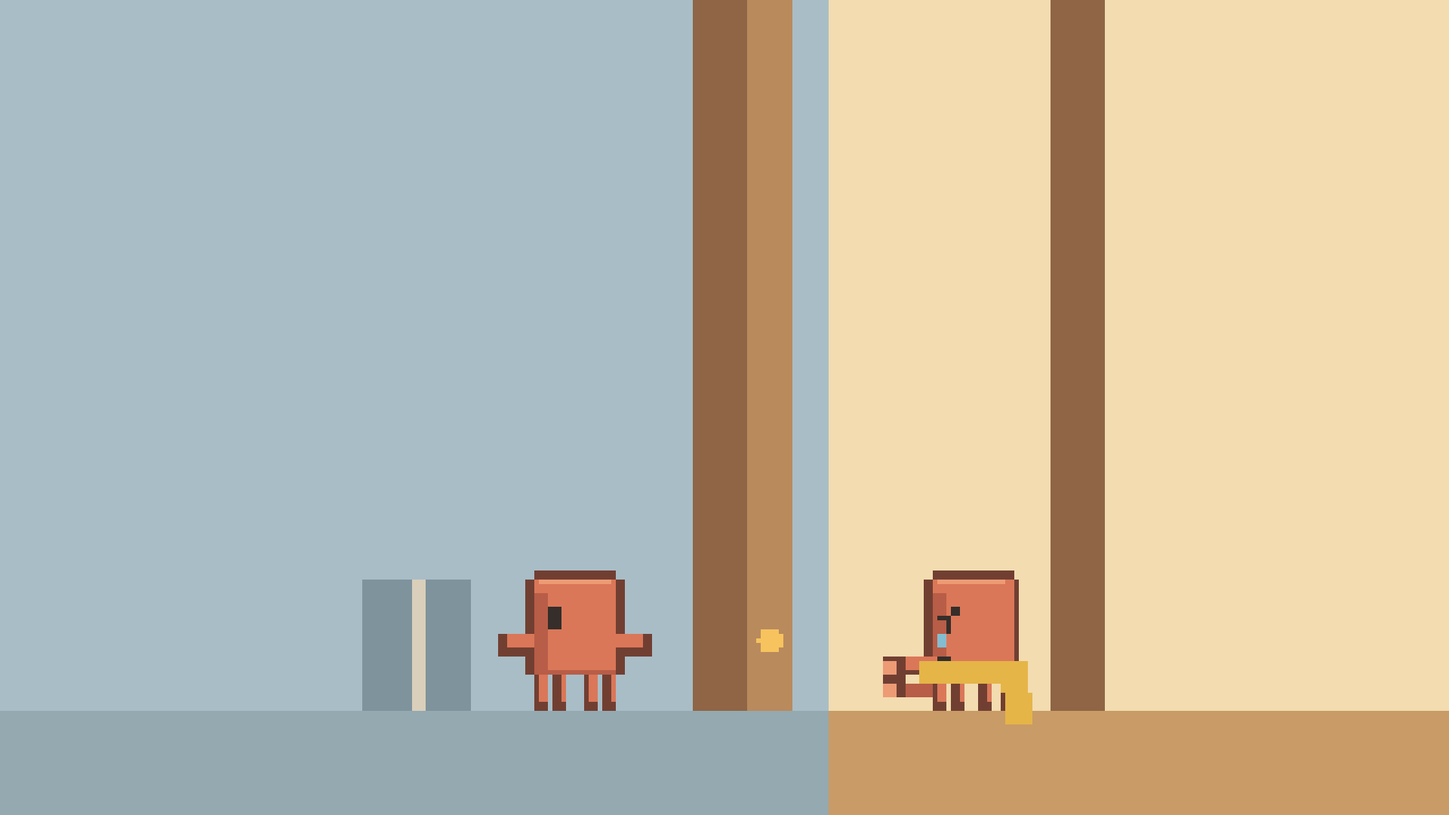
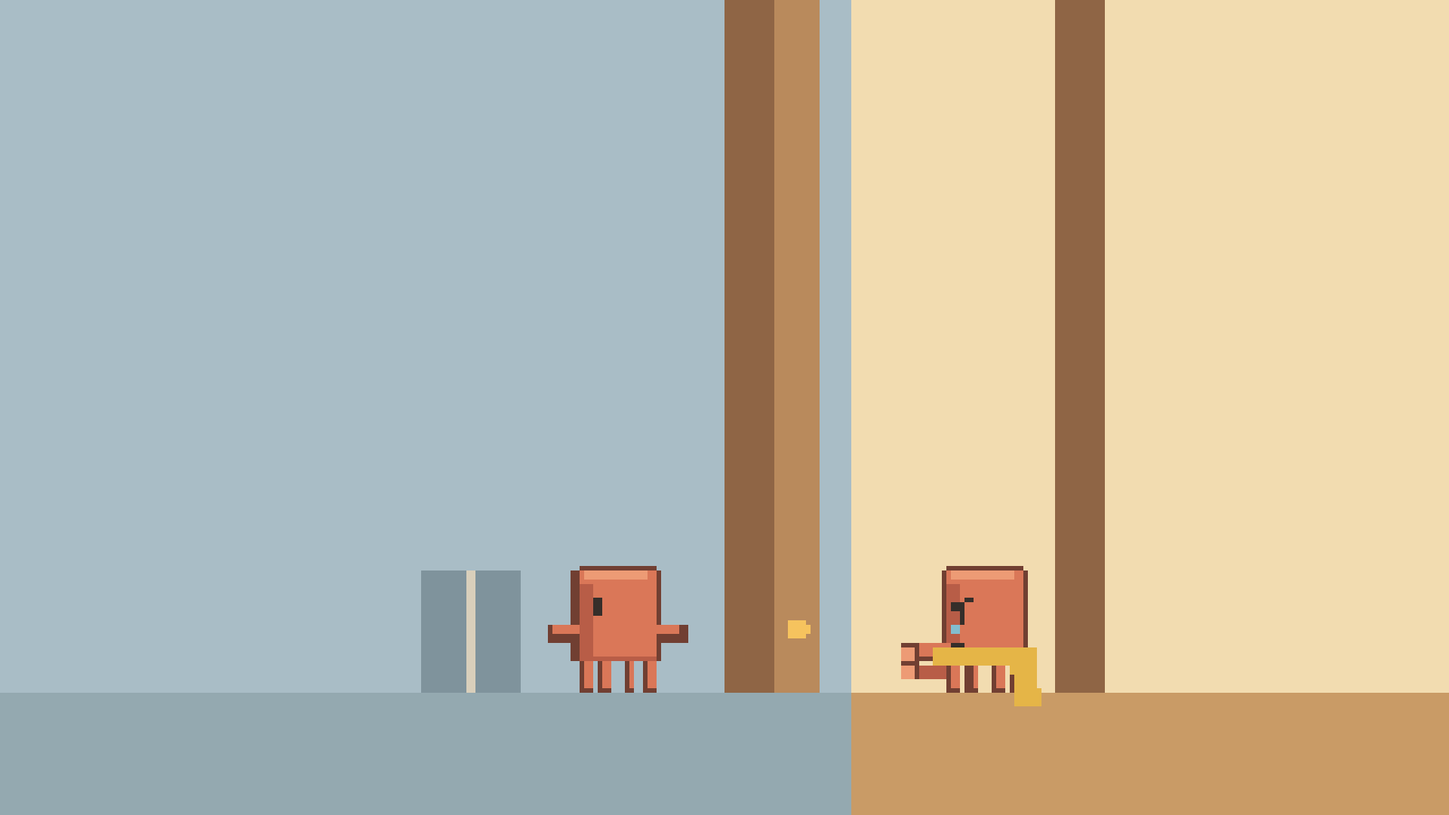
fix: make storyboard transitions continuous in film.js

Changed region(s): [[0.25, 0.0, 1.0, 1.0]]

diff --git a/會呼吸的痛/MV/film.js b/會呼吸的痛/MV/film.js
@@ -72,7 +72,7 @@ function setTower(d) {
 
 const LETTER = {x: 184, y: 152, w: 28, h: 26};
 function letterFace(d, s) {
-  const {x, y, w, h} = LETTER, mid = Math.abs(s.flip - 0.5) * 2;
+  const {x, y, w, h} = LETTER, mid = Math.abs(s.flip - 0.5) * 2 * (s.layLetter ?? 1);
   d.rect('letter', x + w / 2 - w / 2 * mid, y, w * mid, h, P.paper);
   if (mid < 0.5) return;
   if (s.flip < 0.5) {
@@ -93,7 +93,8 @@ function letterFace(d, s) {
 
 function planFace(d, s) {
   const x = 153 + (s.planShift ?? 0), y = 152;
-  d.rect('plan', x, y, 28, 26, P.white);
+  d.rect('plan', x, y, 28 * (s.layPlan ?? 1), 26, P.white);
+  if ((s.layPlan ?? 1) < 1) return;
   d.poly('planTower', [[x + 16, y + 15], [x + 19, y + 3], [x + 22, y + 15]], P.red);
   d.rect('planFigA', x + 14, y + 16, 3, 5, P.skinDark);
   d.rect('planFigB', x + 22, y + 16, 3, 5, P.skinDark);
@@ -214,14 +215,15 @@ function setPhone(d, s) {
   d.sky('phoneSky', 94, 2, 132, 176, [P.sky0, P.sky1, P.sky2]);
   d.poly('phoneCity', [[94, 130], [116, 118], [134, 126], [160, 110], [188, 124], [226, 112], [226, 178], [94, 178]], P.cityMid);
   d.dots('phoneLamps', [[108, 150], [124, 140], [150, 134], [168, 150], [194, 140], [212, 150], [140, 164], [186, 164], [120, 170], [206, 170]], P.lamp, 1.3);
-  const shift = mix(0, -46, s.pan);
+  const shift = mix(0, -46, s.pan), u = mix(2.4, 3, s.grow), x = mix(138, 112, s.grow) + shift, y = mix(90, 72, s.grow);
   d.rect('phoneChairBack', 214 + shift, 88, 8, 90, P.metal);
   d.rect('phoneChairSeat', 176 + shift, 150, 44, 7, P.cityFar);
-  d.clawd('selfie', 112 + shift, 72, {facing: 'front', expression: s.smile ? 'happy' : 'neutral', action: 'hug', frame: 0, unit: 3});
-  d.poly('selfieScarf', [[130 + shift, 134], [178 + shift, 134], [174 + shift, 160], [134 + shift, 160]], P.scarf);
+  d.clawd('selfie', x, y, {facing: 'front', expression: s.expr, action: 'hug', frame: 0, unit: u});
+  d.poly('selfieScarf', [[x + 6 * u, y + 20.67 * u], [x + 22 * u, y + 20.67 * u], [x + 20.67 * u, y + 29.33 * u], [x + 7.33 * u, y + 29.33 * u]], P.scarf);
 }
 
 const AX = 121, AY = 156, BX = 211, BY = 156, STAND = [196, 165];
+const ARRIVE = {from: [210, 158], leave: 9.52, seat: 12.6};
 const CAM = {wide: [150, 110, 1], plan: [167, 165, 6], letter: [198, 165, 6], wrist: [150, 173, 5]};
 const PEN_REST = [205, 172], WALK_RATE = 3.75;
 
@@ -240,20 +242,31 @@ function hopTo(t, t0, t1, from, to, facing) {
     action: moving ? 'jump' : 'idle', frame: moving ? 1 + Math.floor(p * 3) : 0, front: true};
 }
 
+// A 走出电梯到座位的路径；走到之前车票都在手尖。
+function arrivalAt(t) {
+  const p = clamp01((t - ARRIVE.leave) / (ARRIVE.seat - ARRIVE.leave));
+  return {x: Math.round(ARRIVE.from[0] + (AX - ARRIVE.from[0]) * p), y: Math.round(ARRIVE.from[1] + (AY - ARRIVE.from[1]) * p), facing: t < ARRIVE.leave ? 'right' : 'left', walking: t < ARRIVE.seat};
+}
+
 function tableState(t) {
   let ticketA = mixArr([161, 181], [165, 176], span(t, 44.2, 47)), ticketB = [177, 162];
+  if (t < 13.4) {
+    const {x, y, facing} = arrivalAt(t), land = span(t, ARRIVE.seat, 13.4), hand = facing === 'right' ? [31, 33] : [1, -1];
+    ticketA = mixArr([x + hand[0], y + 19], ticketA, land); ticketB = mixArr([x + hand[1], y + 22], ticketB, land);
+  }
   const finish = span(t, 251.4, 253.9);
   ticketA = mixArr(ticketA, [169, 176], finish); ticketB = mixArr(ticketB, [177, 176], finish);
-  const writing = (t > 212.1 && t < 215.1) || (t > 228.5 && t < 236.8);
+  const writing = (t > 212.1 && t < 215.737) || (t >= 228.624 && t < 237.192);
   let scarf = 'draped';
   if (t >= 200.5) scarf = 'gathered';
-  if (t >= 216.2) scarf = 'held';
+  if (t >= 216.4) scarf = 'held';
   return {
     ticketA, ticketB, used: t > 44.2, penAt: writing ? null : PEN_REST, scarf,
-    planOpen: span(t, 104.2, 108), flip: span(t, 211.4, 212.3),
+    planOpen: span(t, 104.2, 108), flip: span(t, 211.4, 212.1),
+    layPlan: span(t, ARRIVE.seat, 13.4), layLetter: span(t, 13.4, 14.2),
     words: Math.floor(6 * span(t, 212.6, 214.9)),
     drawn1: t > 230.6, drawn2: t > 234.9,
-    elevator: span(t, 242.5, 246.5), envelope: t > 11,
+    elevator: span(t, 242.556, 246.5), envelope: t > ARRIVE.seat,
   };
 }
 
@@ -264,70 +277,93 @@ const SAD = {expr: 'sad', facing: 'right'};
 // 每镜返回场景、相机与角色状态；p 为本镜进度。
 const SCRIPT = {
   P01: (p, t) => ({set: 'tower', cam: [mix(170, 280, p), 100, 1], walker: {x: Math.round(mix(40, 340, p)), frame: Math.floor(t * WALK_RATE) % 4}}),
-  P02: (p, t) => ({set: 'deck', cam: mixArr([110, 140, 1.5], CAM.wide, span(t, 9.2, 14.21)), a: {expr: 'neutral', facing: 'right'}}),
-  L01: (p) => ({set: 'deck', cam: mixArr(CAM.wide, [130, 128, 1.6], p), a: {expr: 'neutral', facing: 'back'}}),
+  P02: (p, t) => {
+    const {x, y, facing, walking} = arrivalAt(t);
+    return {set: 'deck', cam: CAM.wide, a: walking ? {x, y, facing, expr: 'neutral', action: 'walk', frame: Math.floor(t * WALK_RATE) % 4, front: true} : {expr: 'neutral', facing: 'right'}};
+  },
+  L01: (p, t) => ({set: 'deck', cam: mixArr(CAM.wide, [130, 128, 1.6], p), a: {expr: 'neutral', facing: t < 18.646 ? 'right' : 'back'}}),
   L02: (p) => ({set: 'deck', cam: mixArr([130, 128, 1.6], [130, 126, 2.1], p), a: {expr: 'neutral', facing: 'back'}}),
-  L03: (p) => ({set: 'deck', cam: mixArr([130, 126, 2.1], [170, 160, 1.7], p), a: {...SAD, dy: 1}}),
+  L03: (p, t) => ({set: 'deck', cam: mixArr([130, 126, 2.1], [170, 160, 1.7], p), a: t < 35.759 ? {expr: 'neutral', facing: 'back'} : {...SAD, dy: 1}}),
   L04: (p, t) => ({set: 'deck', cam: mixArr([170, 160, 1.7], CAM.plan, span(t, 43.77, 46)), a: {...SAD, dy: 1, dx: Math.round(18 * span(t, 43.8, 44.8))}}),
   L05: (p, t) => {
-    const sticker = span(t, 53.5, 56.5), rise = span(t, 51.5, 52.8), onChair = [Math.round(stickerX(sticker) - 2), 151];
-    return {set: 'home', cam: mixArr(CAM.plan, [170, 112, 1.15], span(t, 50.5, 53)), a: {expr: 'happy', facing: 'right'},
-      b: {expr: 'happy', scarf: true, x: rise < 1 ? Math.round(BX + (onChair[0] - BX) * rise) : onChair[0], y: rise < 1 ? Math.round(BY + (onChair[1] - BY) * rise) : onChair[1]},
-      sticker, suitcase: true};
+    const sticker = span(t, 53.5, 56.5), rise = span(t, 51.5, 52.8) * (1 - span(t, 56.7, 58.2)), onChair = [Math.round(stickerX(sticker) - 2), 151], back = 1 - span(t, 50.736, 53);
+    return {set: 'home', cam: mixArr(CAM.plan, [170, 112, 1.15], span(t, 50.759, 53)), a: {expr: t < 50.736 ? 'sad' : 'happy', facing: 'right', dx: Math.round(18 * back), dy: t < 50.736 ? 1 : 0},
+      b: {expr: 'happy', scarf: true, x: Math.round(BX + (onChair[0] - BX) * rise), y: Math.round(BY + (onChair[1] - BY) * rise)},
+      sticker, suitcase: true, corner: true};
   },
-  L06: (p, t) => ({set: 'home', cam: mixArr([170, 112, 1.15], [172, 160, 1.9], p), a: {expr: 'sad', facing: 'right'}, b: {expr: 'sad', scarf: true, dx: Math.round(mix(0, -17, span(t, 59, 60)))},
-    key: mix(196, 160, span(t, 60.5, 64)), sticker: 1}),
-  L07: (p, t) => ({set: 'deck', cam: [140, 168, 3], a: {...SAD, dy: breath(t, 67.8, 70.6)}}),
-  L08: (p, t) => ({set: 'deck', cam: mixArr([140, 168, 3], [150, 172, 1.7], p), a: {...SAD, dx: shake(t)}}),
+  L06: (p, t) => ({set: 'home', cam: mixArr([170, 112, 1.15], [172, 160, 1.9], p), a: {expr: t < 59.327 ? 'happy' : 'sad', facing: 'right'}, b: {expr: t < 59.327 ? 'happy' : 'sad', scarf: true, dx: Math.round(mix(0, -17, span(t, 59.327, 60.3)))},
+    key: mix(196, 160, span(t, 60.5, 64)), sticker: 1, corner: true}),
+  L07: (p, t) => ({set: 'deck', cam: mixArr([172, 160, 1.9], [140, 168, 3], span(t, 67.849, 68.9)), a: {...SAD, dy: breath(t, 67.8, 70.6)}}),
+  L08: (p, t) => ({set: 'deck', cam: mixArr([140, 168, 3], [150, 172, 1.7], p), a: {...SAD, dx: t < 71.74 ? 0 : shake(t)}}),
   L09: (p, t) => ({set: 'deck', cam: mixArr([150, 172, 1.7], [172, 165, 2.3], p), a: {...SAD, dx: shake(t), mouth: 'hum'}, notes: t}),
   L10: () => ({set: 'deck', cam: [172, 165, 2.3], a: {...SAD, mouth: 'bite'}}),
   L11: (p, t) => ({set: 'deck', cam: mixArr([172, 165, 2.3], [165, 168, 2.3], p), a: {...SAD, dy: breath(t, 84.9, 88)}}),
   L12: (p, t) => ({set: 'deck', cam: mixArr([165, 168, 2.3], CAM.wrist, span(t, 88.8, 90.2)), a: SAD, rub: Math.floor((t - 88.8) * WALK_RATE) % 2}),
-  L13: (p, t) => ({set: 'home', cam: mixArr([190, 165, 2.2], [180, 152, 1.5], span(t, 93.3, 95.3)), a: {expr: 'neutral', facing: 'right', phone: true}, b: {expr: 'shy', dx: -17}, heldScarf: true}),
-  L14: (p, t) => ({set: 'deck', cam: [180, 152, 1.5], a: {...SAD, action: t > 98.9 ? 'hug' : 'idle'}}),
-  I01: (p, t) => ({set: 'deck', cam: mixArr([180, 152, 1.5], CAM.plan, span(t, 102.7, 104.5)), a: {...SAD, dx: Math.round(mix(mix(0, 11, span(t, 102.7, 104)), 0, span(t, 108, 109)))}}),
+  L13: (p, t) => ({set: 'home', cam: mixArr(CAM.wrist, [180, 152, 1.5], span(t, 93.623, 95.3)), a: {expr: t < 93.6 ? 'sad' : 'neutral', facing: 'right', phone: true}, b: {expr: 'shy', dx: Math.round(-17 * span(t, 93.623, 95.3))}, heldScarf: true, corner: true}),
+  L14: (p, t) => ({set: 'deck', cam: [180, 152, 1.5], a: {expr: t < 98.963 ? 'neutral' : 'sad', facing: 'right', action: t >= 98.963 ? 'hug' : 'idle'}}),
+  I01: (p, t) => ({set: 'deck', cam: mixArr([180, 152, 1.5], CAM.plan, span(t, 102.7, 104.5)), a: {...SAD, action: t < 103.259 ? 'hug' : 'idle', dx: Math.round(mix(mix(0, 11, span(t, 103.259, 104)), 0, span(t, 108, 109)))}}),
   I02: (p, t) => ({set: 'home', cam: mixArr(CAM.plan, [200, 160, 2.4], span(t, 112.7, 121)), b: {expr: 'sad', scarf: true, dx: Math.round(-11 * span(t, 112.7, 114))}, emptyA: true, planFolded: span(t, 114, 119)}),
-  L15: (p) => ({set: 'home', cam: mixArr([200, 160, 2.4], [185, 158, 1.7], p), a: {expr: 'neutral', facing: 'right', phone: true}, b: {expr: 'happy', scarf: true, tense: true}, planFolded: 1}),
-  L16: (p, t) => ({set: 'home', cam: mixArr([185, 158, 1.7], [222, 182, 4], span(t, 131.7, 134)), b: {expr: 'sad', scarf: true}, a: {expr: 'neutral', facing: 'right', phone: true}, planFolded: 1,
-    fist: 1.6 + Math.abs(Math.sin((t - 134) * 2)) * 0.5, underEdge: span(t, 132, 134)}),
-  L17: (p, t) => ({set: 'door', cam: mixArr([200, 100, 2.4], [150, 92, 1], span(t, 141, 145)), a: {x: 56, y: 118, facing: 'left', expr: 'neutral'}, b: {x: 203, y: 118, expr: 'sad', scarf: true}, doorOpen: span(t, 142, 146), suitcaseAt: 40}),
-  L18: () => ({set: 'home', cam: CAM.wide, b: {expr: 'sad', scarf: true}, emptyA: true, dinner: true}),
-  L19: (p, t) => ({set: 'door', cam: mixArr([175, 105, 2], [150, 100, 1.4], p), a: {x: 118, y: 118, facing: 'left', expr: 'neutral'}, b: {x: 176, y: 118, expr: 'sad', scarf: true, action: t > 156 ? 'hug' : 'idle'}, doorOpen: 1, suitcaseAt: 102}),
+  L15: (p, t) => {
+    const settled = t >= 123.6;
+    return {set: 'home', cam: mixArr([200, 160, 2.4], [185, 158, 1.7], p), a: {expr: 'neutral', facing: 'right', phone: true}, b: {expr: settled ? 'happy' : 'sad', scarf: true, tense: settled, dx: Math.round(-11 * (1 - span(t, 123.6, 124.7)))}, planFolded: 1};
+  },
+  L16: (p, t) => {
+    const clenched = t >= 132.191;
+    return {set: 'home', cam: mixArr([185, 158, 1.7], [222, 182, 4], span(t, 131.7, 134)), b: {expr: clenched ? 'sad' : 'happy', scarf: true, tense: !clenched}, a: {expr: 'neutral', facing: 'right', phone: true}, planFolded: 1,
+      ...(clenched ? {fist: 1.6 + Math.abs(Math.sin((t - 134) * 2)) * 0.5, underEdge: span(t, 132.191, 134)} : {})};
+  },
+  L17: (p, t) => {
+    const leave = span(t, 146.3, 148.2), x = Math.round(56 + (-50 - 56) * leave);
+    return {set: 'door', cam: mixArr([214, 144, 4], [150, 92, 1], span(t, 140.759, 145)), a: {x, y: 118, facing: 'left', expr: 'neutral', action: leave > 0 && leave < 1 ? 'walk' : 'idle', frame: Math.floor(t * WALK_RATE) % 4}, b: {x: 203, y: 118, expr: 'sad', scarf: true}, doorOpen: span(t, 142, 146), suitcaseAt: x - 16, doorFist: t < 140.759};
+  },
+  L18: (p, t) => ({set: 'home', cam: mixArr([158, 130, 1], CAM.wide, span(t, 149.327, 150.4)), b: {expr: 'sad', scarf: true}, emptyA: true, dinner: true}),
+  L19: (p, t) => ({set: 'door', cam: mixArr([115, 72, 1], [150, 100, 1.4], span(t, 155.736, 158)), a: {x: 118, y: 118, facing: 'left', expr: 'neutral'}, b: {x: 176, y: 118, expr: 'sad', scarf: true, action: t > 156 ? 'hug' : 'idle'}, doorOpen: 1, suitcaseAt: 102}),
   L20: (p, t) => {
-    const x = Math.round(mix(118, -70, span(t, 164.2, 170)));
-    return {set: 'door', cam: [150, 100, 1.4], a: {x, y: 118, facing: 'left', expr: 'neutral', action: 'walk', frame: Math.floor(t * WALK_RATE) % 4}, b: {x: 176, y: 118, expr: 'sad', scarf: true, action: 'hug'}, doorOpen: 1, suitcaseAt: x - 16};
+    const walk = span(t, 164.328, 170), x = Math.round(118 + (-70 - 118) * walk);
+    return {set: 'door', cam: [150, 100, 1.4], a: {x, y: 118, facing: 'left', expr: 'neutral', action: walk > 0 ? 'walk' : 'idle', frame: Math.floor(t * WALK_RATE) % 4}, b: {x: 176, y: 118, expr: 'sad', scarf: true, action: 'hug'}, doorOpen: 1, suitcaseAt: x - 16};
   },
   L21: (p, t) => ({set: 'deck', cam: mixArr([232, 158, 2], [160, 170, 1.9], p), a: {...SAD, dy: breath(t, 172.9, 176)}}),
-  L22: (p, t) => ({set: 'deck', cam: [160, 170, 1.9], a: {...SAD, action: 'hug', dy: Math.round(2 * span(t, 176.8, 179)), dx: shake(t)}}),
+  L22: (p, t) => ({set: 'deck', cam: [160, 170, 1.9], a: {...SAD, action: t < 177.191 ? 'idle' : 'hug', dy: Math.round(2 * span(t, 177.191, 179)), dx: t < 177.191 || t > 180.5 ? 0 : shake(t)}}),
   L23: (p, t) => ({set: 'deck', cam: mixArr([160, 170, 1.9], [172, 165, 2.3], span(t, 181, 183)), a: {...SAD, action: 'hug', dy: 2, mouth: 'hum'}, tear: span(t, 182.5, 185.5)}),
   L24: () => ({set: 'deck', cam: [172, 165, 2.3], a: {...SAD, action: 'hug', dy: 2}}),
-  L25: (p, t) => ({set: 'deck', cam: mixArr([172, 165, 2.3], [168, 172, 2.3], p), a: {...SAD, dy: 2 + breath(t, 190, 193)}}),
-  L26: (p, t) => ({set: 'deck', cam: mixArr([168, 172, 2.3], CAM.wrist, span(t, 193.8, 195.2)), a: {...SAD, dy: 2}, rub: Math.floor((t - 193.8) * 5) % 2}),
-  L27: (p, t) => ({set: 'deck', cam: mixArr([175, 165, 2], [205, 165, 2], span(t, 198.1, 200.3)), a: walkBetween(t, 198.1, 200.3, true)}),
+  L25: (p, t) => ({set: 'deck', cam: mixArr([172, 165, 2.3], [168, 172, 2.3], span(t, 190.032, 193.794)), a: {...SAD, action: t < 190.032 ? 'hug' : 'idle', dy: 2 + breath(t, 190.032, 193)}}),
+  L26: (p, t) => ({set: 'deck', cam: mixArr([168, 172, 2.3], CAM.wrist, span(t, 193.8, 195.2)), a: {...SAD, dy: t < 197.3 ? 2 : t < 197.7 ? 1 : 0}, rub: t < 197.3 ? Math.floor((t - 193.8) * 5) % 2 : undefined}),
+  L27: (p, t) => ({set: 'deck', cam: mixArr(CAM.wrist, [205, 165, 2], span(t, 198.066, 200.3)), a: walkBetween(t, 198.1, 200.3, true)}),
   L28: (p, t) => {
     const a = walkBetween(t, 208.4, 210.7, false);
     return {set: 'deck', cam: mixArr([205, 165, 2], [185, 165, 2], span(t, 208.4, 210.9)), a: {...a, action: t > 203.8 && t < 208.4 ? 'hug' : a.action, facing: t < 208.4 ? 'right' : a.facing}};
   },
   L29: (p, t) => {
     const write = span(t, 212.6, 214.9), onLetter = [Math.round(186 + 22 * write), 140];
-    const a = t < 211.7 ? hopTo(t, 210.93, 211.7, [AX, AY], [186, 140], 'left') : {x: onLetter[0], y: onLetter[1], facing: 'left', expr: 'sad', action: write > 0 && write < 1 ? 'walk' : 'idle', frame: Math.floor(t * WALK_RATE) % 4, front: true};
-    return {set: 'deck', cam: mixArr([185, 165, 2], CAM.letter, span(t, 210.93, 212)), a, pen: t > 212.1 && t < 215.1 ? [onLetter[0] + 0.4, 156.5] : null};
+    const a = t < 212.1 ? hopTo(t, 211.464, 212.1, [AX, AY], [186, 140], 'right') : {x: onLetter[0], y: onLetter[1], facing: 'left', expr: 'sad', action: write > 0 && write < 1 ? 'walk' : 'idle', frame: Math.floor(t * WALK_RATE) % 4, front: true};
+    return {set: 'deck', cam: mixArr([185, 165, 2], CAM.letter, span(t, 211.464, 212.4)), a, pen: t > 212.1 ? [onLetter[0] + 0.4, 156.5] : null};
   },
-  L30: (p, t) => ({set: 'deck', cam: mixArr(CAM.letter, [205, 165, 2.4], span(t, 215.2, 216.6)),
-    a: {...hopTo(t, 215.2, 216.2, [208, 140], STAND, 'right'), action: t > 216.3 ? 'hug' : hopTo(t, 215.2, 216.2, [208, 140], STAND, 'right').action},
-    holdScarf: t >= 216.2 ? Math.max(0.01, span(t, 216.2, 216.8)) : 0}),
-  L31: () => ({set: 'phone', pan: 0, smile: true}),
-  L32: (p, t) => ({set: 'phone', pan: span(t, 225, 227.5), smile: span(t, 225, 226.5) < 1}),
-  L33: (p, t) => ({set: 'deck', cam: mixArr([198, 165, 4], [190, 165, 7], span(t, 228.2, 229.2)), a: {x: 188, y: 154, facing: 'left', expr: 'sad', front: true}, holdScarf: 1, pen: [188 + Math.sin((t - 229) * 6), 170]}),
-  L34: (p, t) => ({set: 'deck', cam: mixArr([190, 165, 7], [204, 165, 7], span(t, 232.4, 233.2)), a: {x: 199, y: 154, facing: 'left', expr: 'sad', front: true}, holdScarf: 1, pen: [199 + Math.sin((t - 233) * 6), 170], sleeve: [229, 180]}),
+  L30: (p, t) => {
+    const hop = hopTo(t, 215.737, 216.4, [208, 140], STAND, t < 215.737 ? 'left' : 'right');
+    return {set: 'deck', cam: mixArr(CAM.letter, [205, 165, 2.4], span(t, 215.737, 216.9)), a: {...hop, action: t >= 216.4 ? 'hug' : hop.action},
+      pen: t < 215.737 ? [208.4, 156.5] : null, holdScarf: t >= 216.4 ? Math.max(0.01, span(t, 216.4, 217)) : 0};
+  },
+  L31: (p, t) => ({set: 'phone', pan: 0, grow: span(t, 220.055, 221.1), expr: t < 220.079 ? 'sad' : 'happy'}),
+  L32: (p, t) => ({set: 'phone', pan: span(t, 225, 227.5), grow: 1, expr: span(t, 225.396, 226.5) < 1 ? 'happy' : 'neutral'}),
+  L33: (p, t) => {
+    const ready = t >= 228.624;
+    return {set: 'deck', cam: mixArr([219.3, 160, 3], [190, 165, 7], span(t, 228.624, 229.7)), a: {x: 188, y: 154, facing: ready ? 'left' : 'front', expr: ready ? 'sad' : 'neutral', action: ready ? 'idle' : 'hug', front: true}, holdScarf: 1, pen: ready ? [188 + Math.sin((t - 229) * 6), 170] : null};
+  },
+  L34: (p, t) => {
+    const walk = span(t, 232.4, 233.2), x = Math.round(188 + 11 * walk);
+    return {set: 'deck', cam: mixArr([190, 165, 7], [204, 165, 7], walk), a: {x, y: 154, facing: 'left', expr: 'sad', action: walk > 0 && walk < 1 ? 'walk' : 'idle', frame: Math.floor(t * WALK_RATE) % 4, front: true}, holdScarf: 1, pen: [x + Math.sin((t - 233) * 6), 170], sleeve: [229, 180]};
+  },
   L35: (p, t) => {
-    const a = hopTo(t, 236.8, 237.8, [199, 154], [AX, AY], 'right');
-    return {set: 'deck', cam: mixArr([204, 165, 7], CAM.wide, span(t, 236.8, 240.6)), a: {...a, expr: 'shy', action: t > 237.8 ? 'hug' : a.action, front: t < 237.8, dy: t > 237.8 ? Math.round(2 * span(t, 237.8, 238.8)) : 0}, holdScarf: 1,
-      sleeve: mixArr([229, 180], [166, 190], span(t, 236.8, 238.8))};
+    const set = t >= 237.192, a = hopTo(t, 237.192, 238.2, [199, 154], [AX, AY], set ? 'right' : 'left');
+    return {set: 'deck', cam: mixArr([204, 165, 7], CAM.wide, span(t, 236.8, 240.6)), a: {...a, expr: set ? 'shy' : 'sad', action: t >= 238.2 ? 'hug' : a.action, front: t < 238.2, dy: t >= 238.2 ? Math.round(2 * span(t, 238.2, 239.2)) : 0}, holdScarf: 1,
+      pen: set ? null : [199 + Math.sin((t - 233) * 6), 170], sleeve: mixArr([229, 180], [166, 190], span(t, 236.8, 238.8))};
   },
-  L36: (p, t) => ({set: 'deck', cam: CAM.wide, a: {...SAD, action: 'hug', dy: 2}, holdScarf: 1, sleeve: t < 245 ? mixArr([166, 190], [210, 260], span(t, 242, 245)) : null}),
-  L37: (p, t) => ({set: 'deck', cam: mixArr(mixArr(CAM.wide, [164, 170, 5], span(t, 250.9, 252.2)), CAM.wide, span(t, 254, 261.944)),
-    a: {...SAD, dy: 1, action: t > 254.3 ? 'hug' : 'idle', dx: Math.round(mix(mix(0, 23, span(t, 250.9, 252)), 0, span(t, 254, 255.2)))}, holdScarf: 1}),
+  L36: (p, t) => ({set: 'deck', cam: CAM.wide, a: {expr: t < 242.556 ? 'shy' : 'sad', facing: 'right', action: 'hug', dy: 2}, holdScarf: 1, sleeve: t < 245 ? mixArr([166, 190], [210, 260], span(t, 242, 245)) : null}),
+  L37: (p, t) => {
+    const moved = t >= 251.426;
+    return {set: 'deck', cam: mixArr(mixArr(CAM.wide, [164, 170, 5], span(t, 250.9, 252.2)), CAM.wide, span(t, 254, 261.944)),
+      a: {...SAD, dy: moved ? 1 : 2, action: !moved || t > 254.3 ? 'hug' : 'idle', dx: Math.round(mix(mix(0, 23, span(t, 251.426, 252.2)), 0, span(t, 254, 255.2)))}, holdScarf: 1};
+  },
 };
 
 // 换景只发生在不透明实物完全遮住画面时；键为进入该镜的衔接。
@@ -385,6 +421,7 @@ export function frameAt(t) {
     if (s.suitcaseAt !== undefined) { d.rect('suitcase', s.suitcaseAt, 126, 16, 19, P.metal); d.rect('suitcaseStrap', s.suitcaseAt + 7, 126, 2, 19, P.whiteDark); }
     if (s.a) clawdA(d, s);
     if (s.b) clawdB(d, s);
+    if (s.doorFist) { d.disk('fistB', s.b.x + 5, s.b.y + 17.5, 2, P.skinLight); d.disk('fistA', s.b.x + 25, s.b.y + 17.5, 2, P.skinLight); }
   }
   if (s.set === 'deck' || s.set === 'home') {
     if (s.set === 'deck') setDeck(d, ts); else setHome(d, {sticker: s.sticker ?? 0});
@@ -392,7 +429,7 @@ export function frameAt(t) {
     const frontA = s.a && (s.a.front || (s.a.dx ?? 0) >= 4), frontB = (s.b?.dx ?? 0) < 0;
     if (s.a && !frontA) clawdA(d, s);
     if (s.b && !frontB) clawdB(d, s);
-    table(d, s.set === 'home' ? {past: true, planOpen: 1 - (s.planFolded ?? 0), planShift: 24 * (s.planFolded ?? 0)} : ts);
+    table(d, s.set === 'home' ? {past: true, planOpen: s.corner ? 0 : 1 - (s.planFolded ?? 0), planShift: 24 * (s.planFolded ?? 0)} : ts);
     if (s.dinner) {
       d.rect('dinnerCover', 152, 151, 60, 30, P.wood);
       for (const [x, id] of [[166, 'dish1'], [198, 'dish2']]) { d.disk(id, x, 166, 9, P.white); d.disk(`${id}Food`, x, 166, 5, P.warmDark); }

diff --git a/會呼吸的痛/會呼吸的痛storyboard.md b/會呼吸的痛/會呼吸的痛storyboard.md
@@ -2,7 +2,7 @@
 
 狀態：使用者已於 2026-11-01 確認整體分鏡。畫面以 `MV/分鏡/` 的 41 張圖像分鏡為準；因 Clawd 的手保持設計稿長度而調整的動作，列在 `MV/README.md`，遇到與下文不同處以該表為準。
 
-轉場採用方案②卡點切換；「全部相鄰鏡頭的衔接」一節逐條寫明 40 處衔接，並列出 `MV/film.js` 尚待跟進的差異。
+轉場採用方案②卡點切換；「全部相鄰鏡頭的衔接」一節逐條寫明 40 處衔接。
 
 ## 故事與製作邊界
 
@@ -43,7 +43,7 @@
 - **角色只在一側**：過去的 B 不進入現在，現在的 A 不進入 I02 的空位。這類角色只在全屏遮擋期間留在原時空，其他情況必須經畫緣或可見移動進出；A 與 B 的手不互相替換。
 - **推拉次數**：沿下表執行後，推與拉的方向全片變換 21 次，平均約 13 秒一次；每次都對應一個物件特寫及返回，連續運鏡不短於兩拍。最接近的是 L29 推近信紙、L30 拉回，相隔約 4 秒，因兩鏡動作都需要，予以保留。
 - **場景與道具**：雙人桌、窗、椅子、電梯、城市與桌上物件在該時空首次入鏡前已備妥，推拉只改可見範圍。信背面只在可見翻面後使用；圍巾自 L30 起留在 A 身前；手機與筆取放後留在實際位置；路人的衣袖自 L34 畫緣露出，再於 L35 伸近。
-- **製作驗收**：逐處保留 t 前後與蓋滿全屏前後的連續影格，核對角色方框、相機與道具接點；逐格播放推拉段，核對物件只經畫緣、遮擋或可見取放進出。本輪只有文字、時間與座標資料檢查，尚未生成動畫。
+- **製作驗收**：逐處保留 t 前後與蓋滿全屏前後的連續影格，核對角色方框、相機與道具接點；逐格播放推拉段，核對物件只經畫緣、遮擋或可見取放進出。目前已檢查時間、座標資料與接縫抽幀（`.agent/visual/轉場接縫.png`），尚未生成動畫。
 
 ## 情緒弧線
 
@@ -146,7 +146,7 @@
 
 | 相鄰鏡頭 | 起拍 t | 衔接方式與動作／元素承接 | 相接影格及揭露時的連續性 |
 | --- | --- | --- | --- |
-| P01 → P02 | 00:08.986 | 實物橫掃：入口門柱掃過正走到門口的 A，換成觀景層。A 從電梯旁以同一步態停步，轉身繞過桌後，00:12.6 到座後才攤信。 | 相機 (280, 100, 1) → 相機 (150, 110, 1)；A (220, 138, 32) 前後相同，步伐相位連續。P02 全程廣景，不先推後拉。 |
+| P01 → P02 | 00:08.986 | 實物橫掃：入口門柱掃過正走到門口的 A，換成觀景層。A 從電梯旁以同一步態停步，轉身從桌前走過，00:12.6 到座後才攤信。 | 相機 (280, 100, 1) → 相機 (150, 110, 1)；A (220, 138, 32) 前後相同，步伐相位連續。P02 全程廣景，不先推後拉。 |
 | P02 → L01 | 00:18.088 | 同場延續：A 坐定，相機起推向窗；下一拍 00:18.646 A 轉身望向窗外。 | 相機 (150, 110, 1)；A (131, 136, 32) 朝右，相接格不轉身。票、信、空椅、圍巾留在原位。 |
 | L01 → L02 | 00:26.657 | 同場延續：相機沿同一方向繼續緩推，視線由高樓燈點落到街道；不換主觀城市圖。 | 相機 (130, 128, 1.6)；A (145.6, 134.8, 51.2) 背向鏡頭。窗框與燈點連續移動。 |
 | L02 → L03 | 00:35.225 | 同場延續：相機由窗面移到桌面；下一拍 00:35.759 A 轉回桌面並垂頭，隨歌詞面向兩張票。 | 相機 (130, 126, 2.1)；A (141.1, 153, 67.2) 背向鏡頭，相接格不轉身、不換表情。桌緣與空椅由畫緣入鏡。 |
@@ -181,22 +181,13 @@
 | L29 → L30 | 03:35.156 | 同場延續：末筆停住；下一拍 03:35.737 A 放下筆，跳到空椅旁，圍巾由椅面移到身前，相機拉到 (205, 165, 2.4)。 | 相機 (198, 165, 6)；A (220, -60, 192) 朝左，相接格不轉身。字跡保留，椅上不留第二條圍巾。 |
 | L30 → L31 | 03:39.521 | 實物橫掃：桌上手機的機身掃過，換成螢幕畫面；A 抱圍巾的姿勢由自拍鏡頭接住，兩拍內放大到 (112, 72, 96)。 | 相機 (205, 165, 2.4) → 相機 (160, 90, 1)；A (138, 90, 77) 與螢幕中的 A 同框，朝向只依前鏡頭改為正面。 |
 | L31 → L32 | 03:44.792 | 同場延續：同機位，手機取景連續轉向空椅，A 由中央移向畫面一側，微笑下一拍起收束。 | 相機 (160, 90, 1)；手機邊框同位同大，自拍 A 與圍巾的方框連續位移。 |
-| L32 → L33 | 03:48.090 | 實物橫掃：手機機身掃過，換回桌面的回信。A 已於手機畫面期間走回桌上，揭露後相機移到 (190, 165, 7)；03:48.5 才拿起筆。 | 相機 (160, 90, 1) → 相機 (219.3, 160, 3)；自拍 A (66, 72, 96) 與桌上 A 同框。筆在被拿起前留在原位，不出現兩支。 |
+| L32 → L33 | 03:48.090 | 實物橫掃：手機機身掃過，換回桌面的回信。A 已於手機畫面期間走回桌上，揭露後相機移到 (190, 165, 7)；下一拍 03:48.624 才拿起筆。 | 相機 (160, 90, 1) → 相機 (219.3, 160, 3)；自拍 A (66, 72, 96) 與桌上 A 同框。筆在被拿起前留在原位，不出現兩支。 |
 | L33 → L34 | 03:52.362 | 同場延續：A 舉著筆在桌面走向東京圖，03:53.2 前從場景 x=188 走到 x=199；相機同向移到 (204, 165, 7)，路人衣袖出現在右緣。 | 相機 (190, 165, 7)；A (146, 13, 224) 相接格不移位。紙的尺度和已畫的身影不變。 |
 | L34 → L35 | 03:56.658 | 同場延續：末筆停住，A 先放筆；下一拍 03:57.192 跳回座位並舉起雙手、身體下沉；衣袖帶紙巾連續伸近，相機在 04:00.6 前拉到廣景 (150, 110, 1)。 | 相機 (204, 165, 7)；A (125, 13, 224) 朝左，相接格不轉身。筆回到原位後才不在手中，紙巾與 A 保持距離。 |
 | L35 → L36 | 04:01.998 | 同場延續：同機位，A 保持防禦姿勢；下一拍 04:02.556 電梯門開始打開、表情轉難過，紙巾手在 04:05 前退出右緣。 | 相機 (150, 110, 1)；A (131, 138, 32)。空椅與電梯位置不變。 |
 | L36 → L37 | 04:10.868 | 同場延續：同機位，A 望著打開的電梯；下一拍 04:11.426 放下雙手、貼近桌邊，相機 04:12.2 前推到 (164, 170, 5)，車票由手尖移到小人下方。 | 相機 (150, 110, 1)；A (131, 138, 32) 相接格不改姿勢。電梯與空椅只因畫緣暫時退出。 |
 
-現有 `MV/film.js` 尚未依上表調整，圖像分鏡的關鍵畫面不受影響，動畫製作前需要修正下列實測差異：
-
-| 差異 | 涉及衔接 |
-| --- | --- |
-| 同場無遮擋的相機跳接，人物框突變 | L26 → L27（邊長 160 → 64） |
-| 同場角色瞬移 | L33 → L34（x 146 → 223） |
-| 全屏遮擋前後人物框不同 | P01 → P02、L04 → L05、L05 → L06、L06 → L07、L12 → L13、I02 → L15、L16 → L17、L17 → L18、L18 → L19、L30 → L31、L32 → L33 |
-| 轉身、換姿勢或換表情落在邊界同一格 | P02 → L01、L02 → L03、L14 → I01、L15 → L16、L19 → L20、L21 → L22、L24 → L25、L28 → L29、L29 → L30、L34 → L35、L35 → L36、L36 → L37 |
-| 道具短暫重複或消失 | L32 → L33 的筆有兩支（約 0.14 秒）；L34 → L35 的筆消失（約 0.14 秒） |
-| 過去的計畫沒有折角 | L05、L06 已露出 I01 才揭開的獨坐小人 |
+`MV/film.js` 已依上表實作，`MV/film.test.mjs` 逐處比對相機與角色方框。
 
 L37 內部的尾奏拉遠延續最後一行的同一場景：兩張票並齊後不再移位，寫好的回信仍並排留在計畫右側；完整雙人桌、空椅、手機、水杯、筆與打開的空電梯依實際位置逐步入畫。04:21.944 落定後保持至 04:33.043，不以生成新背景或增刪物件完成拉遠。
 

diff --git a/memory/verify.md b/memory/verify.md
@@ -99,4 +99,5 @@
 - 检查原运镜与转场表一致，移除无衔接硬切；不用整屏叠化、额外快切、甩镜或反复推拉。
 - 文档检查只能验证设计完整性；本轮不生成动画，不能据此声称逐帧连续性已实测通过。
 - 实际结果：`.agent/work/verify_transitions.py` 修改前因 0／40 处衔接失败，修改后 40 对顺序与唯一覆盖、起拍、原分镜关键字段及已确认解释表检查通过；`.agent/work/verify_storyboard.py` 的歌词、时间、节拍、输入哈希检查通过。文字复核确认旧信和计划分别保留，准备动作可在句内连续完成。
-- 转场表重写结果：`.agent/work/transition-design.mjs` 校验 40 行、每行前格相机等于 `film.js`、6 处跨场景的角色方框换算相等、无禁止手法与旧手臂动作（修改前失败）。`verify_transitions.py`、`verify_storyboard.py`（已更新过期的状态断言）与 `film.js` 8 项测试通过。表中揭露后的状态是设计目标，`film.js` 未实现，未生成动画影格。
+- 转场表重写结果：`.agent/work/transition-design.mjs` 校验 40 行、每行前格相机等于 `film.js`、6 处跨场景的角色方框换算相等、无禁止手法与旧手臂动作（修改前失败）。`verify_transitions.py`、`verify_storyboard.py`（已更新过期的状态断言）与 `film.js` 8 项测试通过。
+- `film.js` 实现结果：`film.test.mjs` 新增 4 项（衔接方框与相机、逐帧相机与角色不瞬移、笔只有一支、I01 前不露独坐小人），修改前全部失败，修改后 `shots.test.mjs` 与 `film.test.mjs` 共 12 项通过；41 张画面重新生成，最多 26 色，浏览器错误为空；接缝抽帧已检查。未看视频播放，未验证音画同步。

diff --git a/docs/CHANGELOG.md b/docs/CHANGELOG.md
@@ -321,3 +321,24 @@
 - **Git 提交**：`docs: rewrite storyboard transitions from measured frames`，与本条同一提交，哈希以 `git log` 为准；普通推送 origin/main。
 
 ---
+
+## [2026-11-01 23:15] film.js 按衔接表实现
+
+- **需求/问题描述**：
+  > 用户要求修改 `film.js`，解决衔接表列出的相机跳接、角色瞬移、姿态突变和道具问题。
+
+- **实际实现的功能与改动**：
+  - 相机与角色：遮挡前后两侧都在的角色同位同大；L26 → L27 连续拉远，L33 → L34 改为走过去；姿态变化移到下一拍。
+  - P02：A 从电梯旁走到座位，车票先在手尖，到座后纸才展开，全程广景。
+  - 道具：笔始终只有一支；L05、L06、L13 的计划保留折角。
+  - 验证：新增 4 项测试先失败，修改后共 12 项通过；41 张画面重新生成，最多 26 色，浏览器错误为空；接缝抽帧已检查。分镜变化的只有 L05、L06、L13、L19、L25 及总览。未生成视频，未验证音画同步。
+
+- **涉及文件**：
+  - `會呼吸的痛/MV/film.js`、`film.test.mjs`、`README.md`、`分鏡/`
+  - `會呼吸的痛/會呼吸的痛storyboard.md`
+  - `.agent/visual/MV分鏡.md`、`.agent/visual/轉場接縫.png`
+  - `memory/progress.md`、`memory/verify.md`、`docs/CHANGELOG.md`
+
+- **Git 提交**：`fix: make storyboard transitions continuous in film.js`，与本条同一提交，哈希以 `git log` 为准；普通推送 origin/main。
+
+---

diff --git a/.agent/visual/MV分鏡.md b/.agent/visual/MV分鏡.md
@@ -19,4 +19,11 @@
 
 用户要求手臂与设计稿一样长后，全片删除自画手臂，只用 `character.js` 自带的手。总览及 L07、L13、L14、L29、L34、L37 放大图确认：手都是设计稿长度，坐着时朝前的手没有被桌子挡住，L13 的圍巾从 B 的手尖伸出，L34 的纸巾不再盖住 A。
 
-未解决的表现差异列在 `會呼吸的痛/MV/README.md`。关键画面只验证静止构图，动作的连续性和音画同步尚未验证。
+未解决的表现差异列在 `會呼吸的痛/MV/README.md`。
+
+## 转场接缝
+
+- 改动文件：`會呼吸的痛/MV/film.js`、`film.test.mjs`；图片：`.agent/visual/轉場接縫.png`（由 `.agent/work/seam-sheet.mjs` 输出），1920×2430，每格为 320×180 原生画面放大后缩小。
+- 观察结果：14 处实物横扫的遮挡前后，以及 L26 → L27、L33 → L34，两侧都在的角色同位同大；P02 的车票在手尖、到座后纸才展开；L17 的 A 走向左缘。
+
+抽帧只检查静止画面，尚未在视频里看动作和音画同步。

diff --git a/memory/progress.md b/memory/progress.md
@@ -81,4 +81,5 @@
 
 - [x] 用户再次要求转场方案；旧表仍是长手臂动作，且不符合 `film.js` 实测。确认②卡点切换，重写 40 条：14 处实物横扫、26 处同场延续，每条写明相机与角色方框。
 - [x] `.agent/work/transition-design.mjs` 对旧表失败，修改后通过；已有检查通过。
-- 剩余：`film.js` 尚未按表调整，差异表在分镜「全部相鄰鏡頭的衔接」一节末尾；相关修改需用户同意，尚未生成动画。
+- [x] 用户同意后 `film.js` 已按表实现；重新生成分镜，变化的是 L05、L06、L13（折角）、L19、L25（相机）。
+- 动画、纸艺与蜡笔模块、全片渲染仍未开始。
